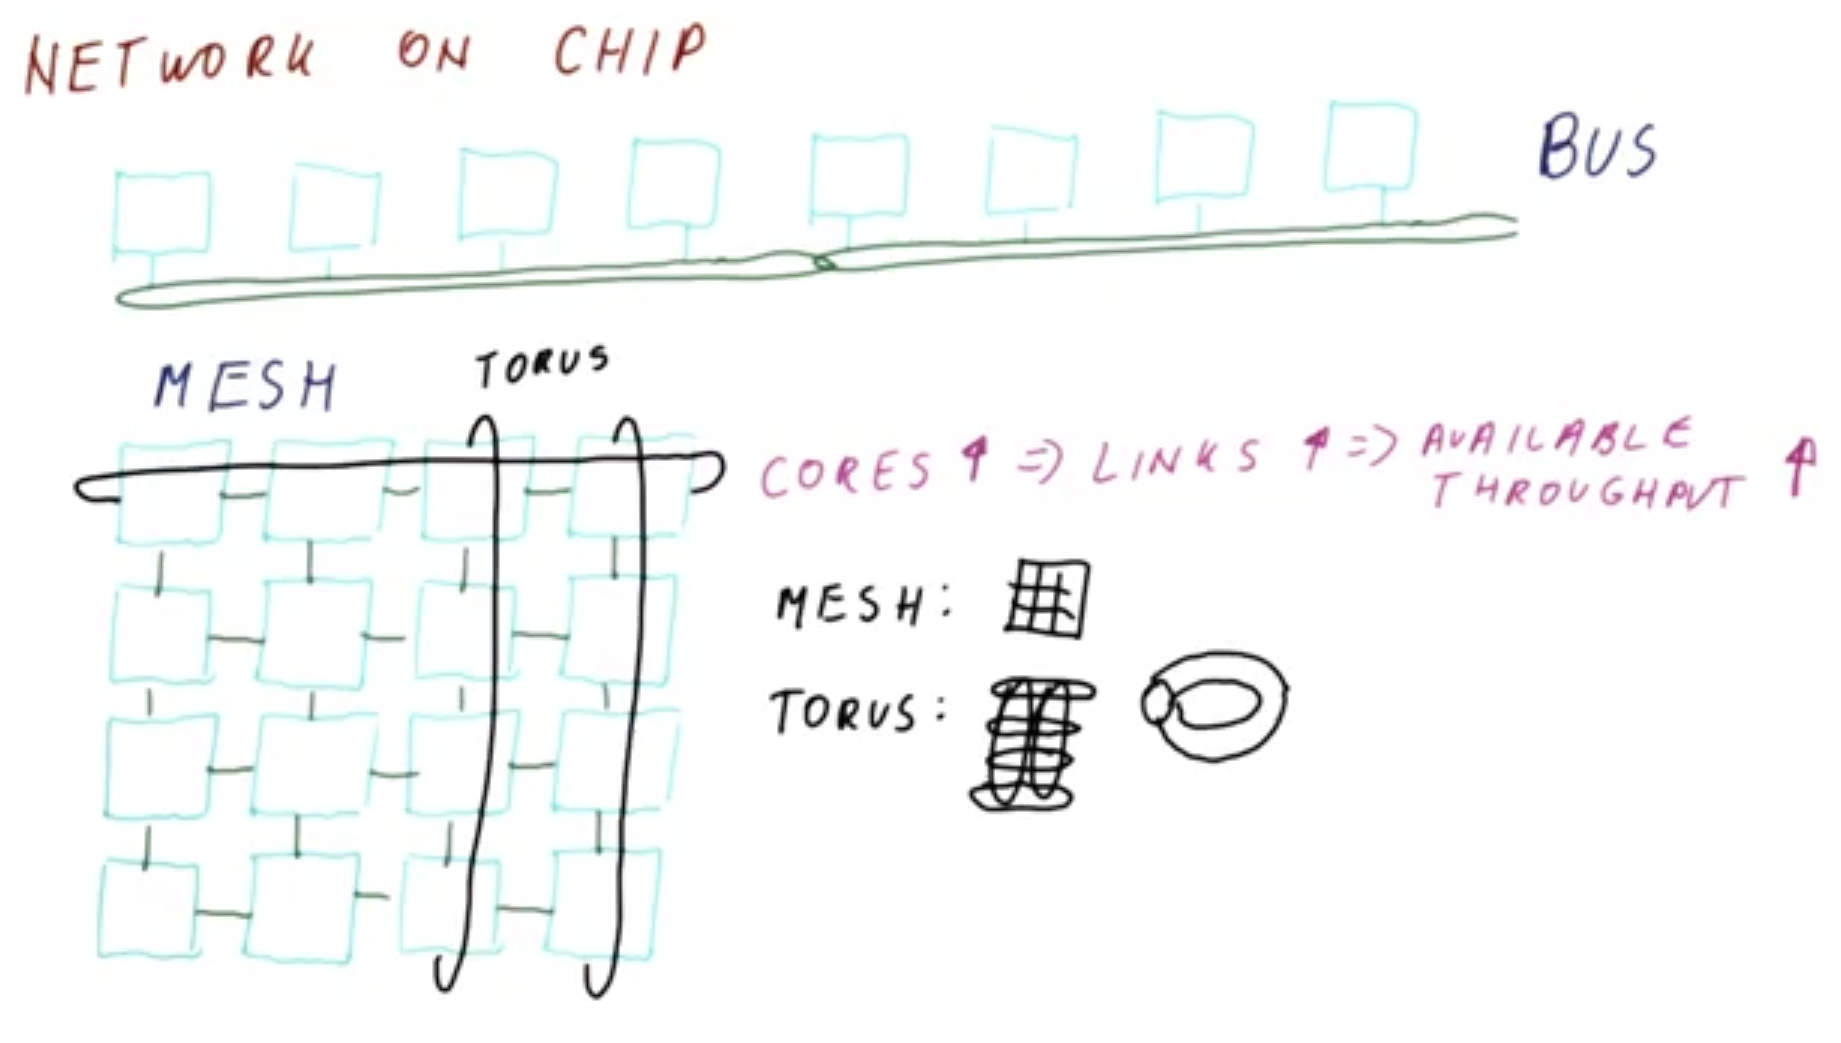
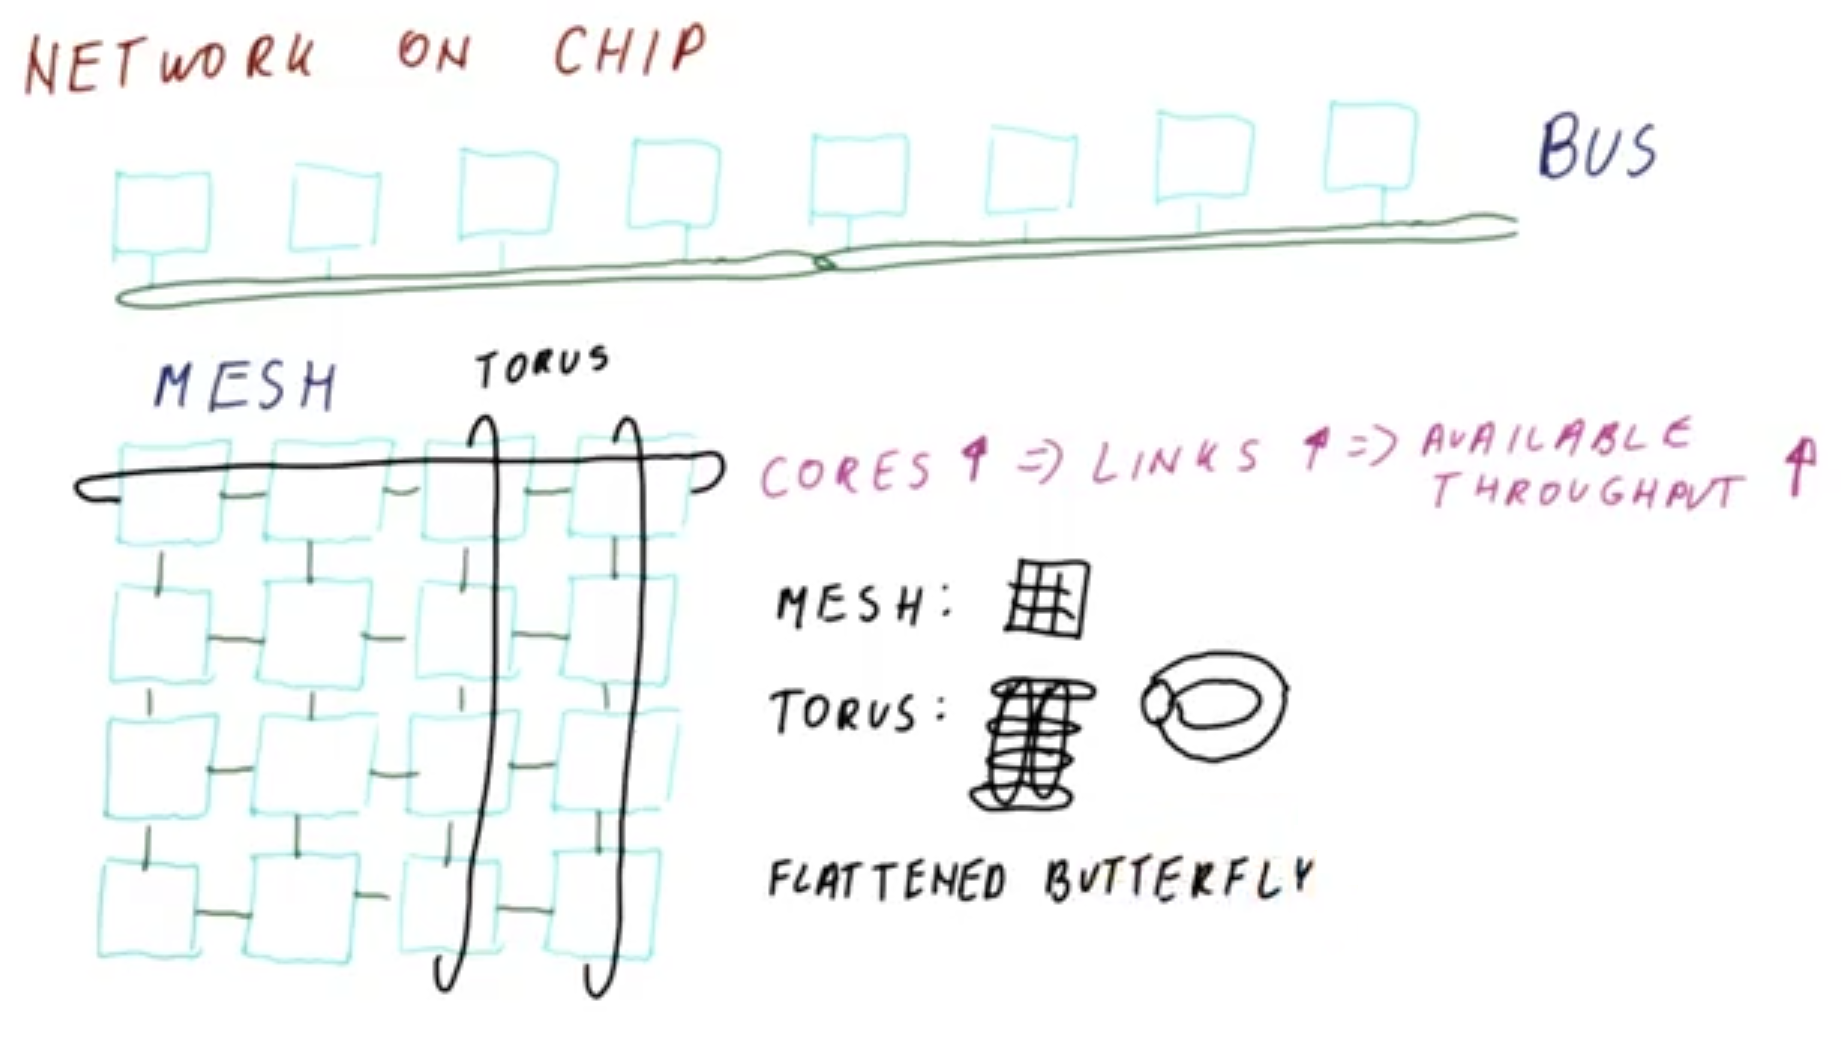
WIP CS 6290 22

Changed region(s): [[0.4025, 0.7977, 0.7121, 0.8591]]

diff --git a/cs-6290/22-many-cores.md b/cs-6290/22-many-cores.md
@@ -20,3 +20,35 @@ This lesson will discuss several ***challenges*** which are present in a **many-
     * Therefore, to resolve this issue, a **scalable on-chip network** is required, which allows the traffic to grow proportionally to the number of cores (without otherwise bottlenecking). Furthermore, **directory coherence** (cf. Lesson 19) is also required for this resolution measure, in order to obviate the dependency on the bus itself.
 
 ### 3. Network on a Chip
+
+<center>
+<img src="./assets/22-002.png" width="650">
+</center>
+
+Consider now what such a "network on a chip" would look like (as in the figure shown above).
+
+Let a "tile" (denoted by teal square in the figure shown above) represent a core and its corresponding level 1 (L1) cache. Conventionally, each such "tile" is connected to a shared bus (denoted by green in the figure shown above).
+
+In such an eight-tile configuration, assume that the first set of four tiles use half of the available throughput of the shared bus (i.e., cache misses and coherence are managed via the bus accordingly), and similarly the other set of four tiles replicates this configuration exactly, using the other half of the available shared-bus throughput accordingly.
+  * With this "compositely shared" bus, ***all*** of the corresponding eight-core traffic passes through the bus, resulting in a relatively slower bus with lower throughput (i.e., as compared to each individual four-tile unit) due to the increased traffic.
+  * Therefore, the bus quickly becomes ***saturated*** in this manner as the quantity of tiles increases.
+
+Conversely, consider an alternate network topology called a **mesh** (as in the figure shown above), whereby the tiles are individually interconnected.
+  * While there is no longer an equivalent "bus-wide broadcast," there is still the capability present whereby tiles can intercommunicate in this manner. Communication can also pass across tiles in this manner, and independently across such "paths."
+  * Correspondingly, the ***overall throughput*** is larger than that of any individual link. Furthermore, since these links are relatively short, this further amplifies the overall throughput of the system as a whole.
+
+Correspondingly, in such a mesh comprised of `16` cores (as in the figure shown above), there are many such (independent) links present; furthermore, this scaling increases with the number of cores (i.e., as the number of cores increases, so does the number of links between them), thereby ***increasing*** available throughput accordingly.
+  * Consequently, this topology scales much better with increasing cores than an equivalent single shared-bus configuration.
+
+<center>
+<img src="./assets/22-003.png" width="650">
+</center>
+
+Note that there are many such **point-to-point networks** available in addition to the aforementioned mesh (as in the figure shown above).
+  * The **mesh** is particularly amenable to building chips (i.e., printing on silicon), because none of the links intersect one another.
+  * The **torus** uses such "three-dimensional"/"cross-over" linking, whereby "terminal tiles" are also interconnected.
+  * The **flattened butterfly** is another more advanced network topology.
+
+ ***N.B.*** Consult an advanced architectures course for more discussion on these point-to-point networks and other related "network on a chip" topologies.
+
+### 4. Mesh vs. Bus Throughput Quiz
